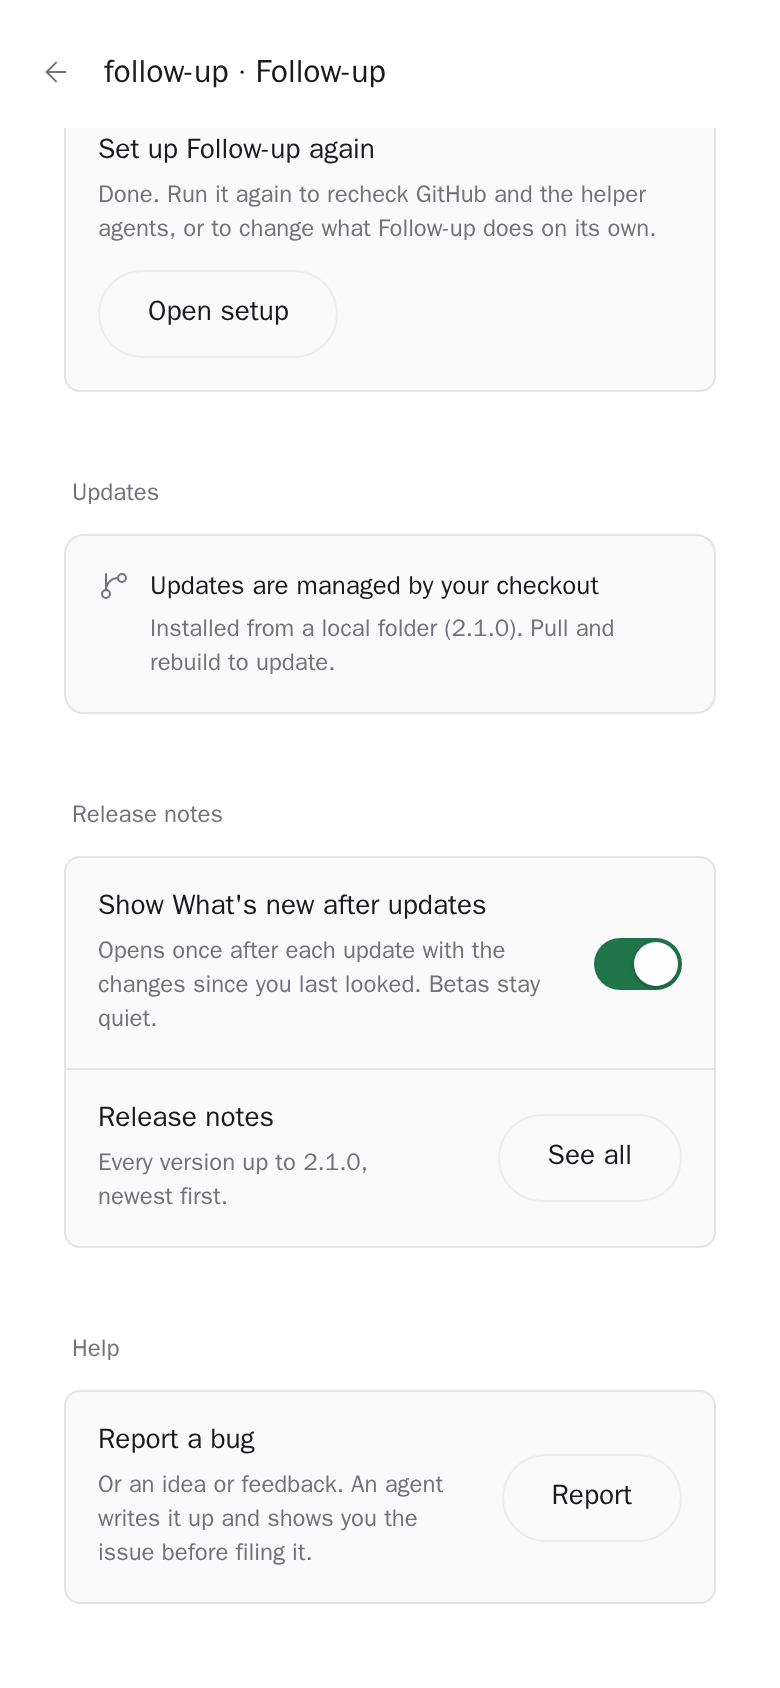
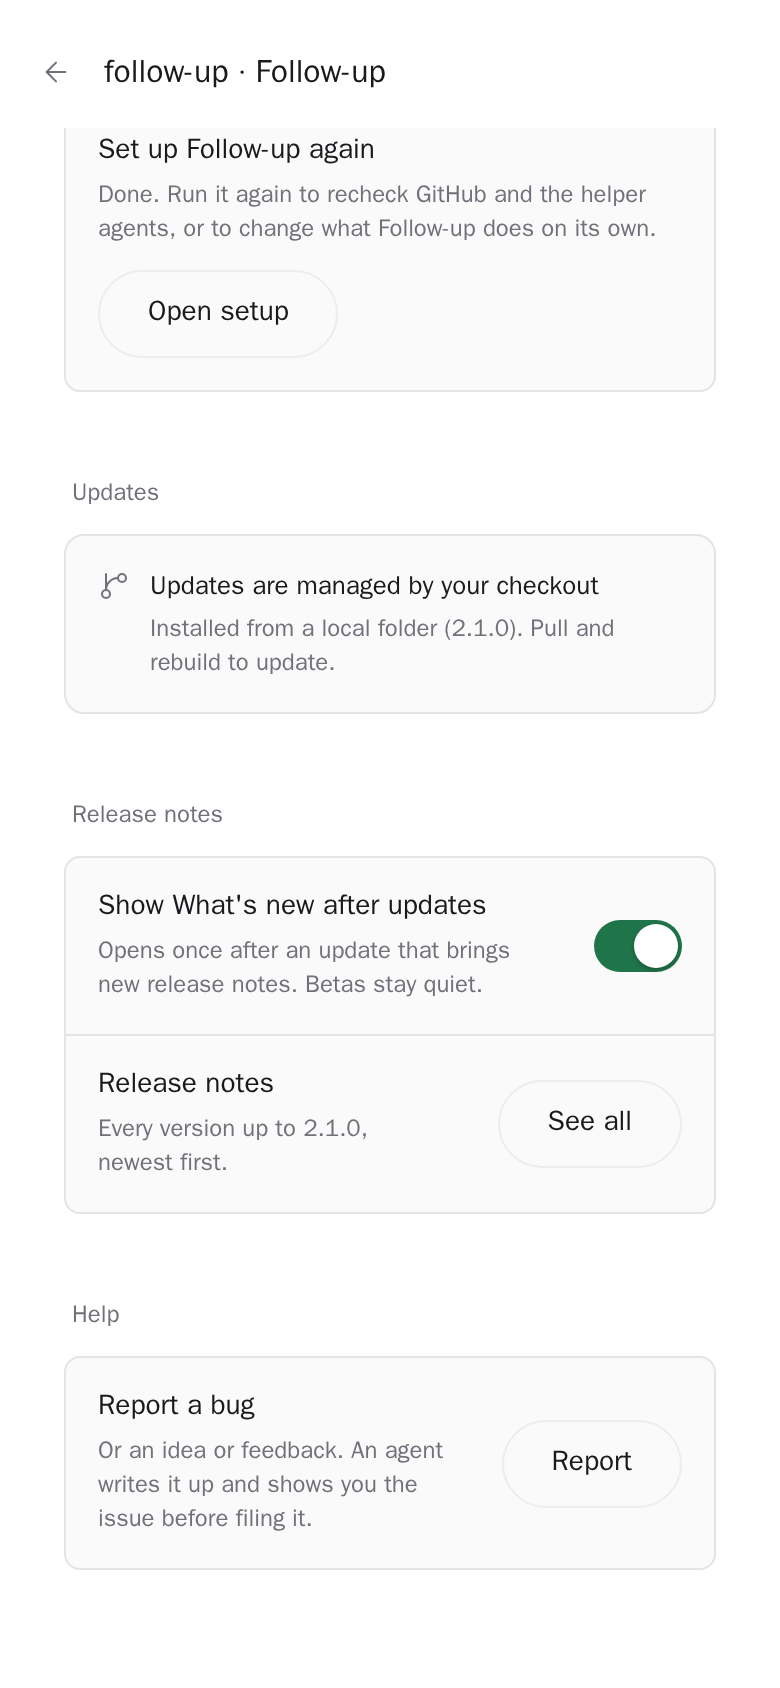
docs: word the What's new rule as an update that brings new release notes

diff --git a/server/mcp-source.ts b/server/mcp-source.ts
@@ -107,7 +107,7 @@ export const mcpSource: string = [
   "  [\"release_notes\", \"Read Follow-up's release notes: the installed version, the version it updated from (previous) and when (updatedAt, ms), and every shipped version's notes, newest first. What's new shows the notes after previous, once per device, unless enable_whats_new is off (set_updates).\" + read, \"follow.agent-act\", {}, []],",
   "  [\"updates_status\", \"Read Settings → General: installed version and install kind, mode (auto|notify|off), channel (stable|beta), enable_whats_new, newest version per channel, last and next check, phase (current, available, waiting, installing, settling, updated, rolled-back, install-failed, untrusted), notes for the pending version, install history, and move (2.0's one-time move to its new plugin id: phase none|waiting|moving|moved|rolled-back|failed|manual, with the reason).\" + read, \"follow.agent-act\", {}, []],",
   "  [\"check_updates\", \"Ask the registry for a newer Follow-up now, like Check now. Works when updates are Off. Calls a few seconds apart share one request; call it only when asked. Returns updates_status.\", \"follow.agent-act\", {}, []],",
-  "  [\"set_updates\", \"Change how Follow-up updates, like Settings → General: { mode: auto|notify|off, channel: stable|beta, enable_whats_new: show What's new once after each update (betas stay quiet; off records each update as seen) }.\" + ask, \"follow.agent-act\", { mode: { type: \"string\", enum: [\"auto\", \"notify\", \"off\"] }, channel: { type: \"string\", enum: [\"stable\", \"beta\"] }, enable_whats_new: boolean, ...planned }, []],",
+  "  [\"set_updates\", \"Change how Follow-up updates, like Settings → General: { mode: auto|notify|off, channel: stable|beta, enable_whats_new: show What's new once after an update that brings new release notes (betas never; off records each update as seen) }.\" + ask, \"follow.agent-act\", { mode: { type: \"string\", enum: [\"auto\", \"notify\", \"off\"] }, channel: { type: \"string\", enum: [\"stable\", \"beta\"] }, enable_whats_new: boolean, ...planned }, []],",
   "  [\"install_update\", \"Install a newer Follow-up, like Install now: { version } from updates_status. It waits for a quiet moment (no agent mid-turn) unless anyway: true. Rolled back automatically if the new version doesn't come up. Never installs a version whose provenance failed.\" + ask, \"follow.agent-act\", { version: string, anyway: boolean, ...planned }, [\"version\"]],",
   "  [\"retry_move\", \"Try Follow-up's move to its new plugin id again, like Settings → General's Try again, after updates_status shows move.phase rolled-back or failed. It waits for a quiet moment like an update and rolls back by itself if the new id doesn't come up.\" + ask, \"follow.agent-act\", { ...planned }, []],",
   "  [\"trust_bypass_status\", \"Read how many permission prompts trust bypass approved today, and the latest ones.\" + read, \"follow.agent-act\", {}, []],",

diff --git a/tests/update-announcements.test.ts b/tests/update-announcements.test.ts
@@ -3,10 +3,11 @@ import assert from "node:assert/strict";
 import { announcesUpdate, parseChangelog, quietRelease, recentUpdate, whatsNew, type WhatsNewInput } from "../shared/changelog";
 import { compareVersions } from "../shared/version";
 
-// Invariant (whats-new-after-every-stable-update): What's new opens once after an update to any newer stable version
-// (major, minor or patch) or a major's rc that has notes since the device last looked. A first install, onboarding, a
-// downgrade, a beta and the setting off are recorded quietly; the setting off records the installed version, so turning
-// it back on never brings old notes. whatsNew in shared/changelog.ts is the one rule; the grid below enforces it.
+// Invariant (whats-new-after-every-stable-update): What's new opens after a stable update that brings new release notes, unless the switch is off; betas never do.
+// New notes means a CHANGELOG section newer than the version the device last saw; with none, no sheet ("no-notes").
+// It opens once per device (a major's rc carries the major's section and counts as its release). A first install, onboarding, a downgrade, a beta and the
+// switch off are recorded quietly; the switch off records the installed version, so turning it back on never brings
+// old notes. whatsNew in shared/changelog.ts is the one rule; the grid below enforces it.
 // Home's "Follow-up X is available" line is a separate notice and stays major-only (update-notice-major-only,
 // announcesUpdate, tests/updater.test.ts).
 
@@ -35,6 +36,8 @@ test("quiet cases: first install, onboarding, downgrade, seen, beta, no notes, a
   assert.deepEqual(at("2.1.0", "2.1.0"), { show: false, reason: "seen", record: null });
   assert.deepEqual(at("2.0.1", "2.1.0-beta.0"), { show: false, reason: "prerelease", record: "2.1.0-beta.0" });
   assert.deepEqual(at("2.0.0", "2.0.1", { notes: [] }), { show: false, reason: "no-notes", record: "2.0.1" });
+  const older = notes.filter(n => n.version === "2.0.0" || n.version === "1.5.0");
+  assert.deepEqual(at("2.0.0", "2.0.1", { notes: older }), { show: false, reason: "no-notes", record: "2.0.1" }, "a stable with no section newer than the device's last seen version: no sheet");
   assert.deepEqual(at("2.0.0", "2.1.0", { enabled: false }), { show: false, reason: "off", record: "2.1.0" }, "off: no sheet, the version is recorded");
   assert.ok(at("2.1.0", "3.0.0", { enabled: true }).show, "on again: only versions after the recorded one");
   assert.deepEqual(at("2.1.0", "2.1.0", { enabled: true }), { show: false, reason: "seen", record: null }, "turning it back on brings no old notes");

diff --git a/shared/changelog.ts b/shared/changelog.ts
@@ -159,10 +159,11 @@ export function announcesUpdate(from: string | null, to: string): boolean {
 export const quietRelease = (version: string): boolean => (parseVersion(version)?.pre.length ?? 0) > 0 && !isMajorRc(version);
 
 /**
- * Whether this device shows "What's new" now (invariant `whats-new-after-every-stable-update`). It opens after an
- * update to any newer stable version (major, minor or patch) or a major's rc, when there are notes since the version
- * the device last saw. Quiet, recording the installed version: a first install (no baseline at all; onboarding covers
- * it), a downgrade, a beta, and the setting off (so turning it back on never brings old notes). Onboarding wins over the
+ * Whether this device shows "What's new" now (invariant `whats-new-after-every-stable-update`): What's new opens after a stable update that brings new release notes, unless the switch is off; betas never do
+ * (only stables carry notes). New means a CHANGELOG section newer than the version this device last saw; with none, no
+ * sheet ("no-notes"). A major's rc carries the major's section and counts as its release. Quiet, recording the
+ * installed version: a first install (no baseline at all; onboarding covers it), a downgrade, a beta, and the switch
+ * off (so turning it back on never brings old notes). Onboarding wins over the
  * sheet and leaves the stored version alone, so the sheet can come after onboarding ends.
  */
 export function whatsNew({ installed, deviceSeen, previous, onboarding, enabled = true, notes }: WhatsNewInput): WhatsNew {

diff --git a/shared/updates.ts b/shared/updates.ts
@@ -44,7 +44,7 @@ export const updatesViewSchema = z.object({
   installKind: z.enum(INSTALL_KINDS),
   mode: z.enum(UPDATE_MODES),
   channel: z.enum(["stable", "beta"]),
-  /** What's new opens after an update (major, minor or patch; betas stay quiet). Applies to every install kind. */
+  /** What's new opens after an update that brings new release notes (stables only). Applies to every install kind. */
   enable_whats_new: z.boolean().default(true),
   /** Newest version on each channel per the last check (null: nothing published, or never checked). */
   channels: z.object({ stable: z.string().nullable(), beta: z.string().nullable() }),
@@ -68,7 +68,7 @@ export type UpdatesChange = z.infer<typeof setUpdatesInputSchema>;
 /** Settings → General's What's new switch: its label and the hint for each state. */
 export const WHATS_NEW_LABEL = "Show What's new after updates";
 export const whatsNewHint = (on: boolean) => on
-  ? "Opens once after each update with the changes since you last looked. Betas stay quiet."
+  ? "Opens once after an update that brings new release notes. Betas stay quiet."
   : "Updates install quietly. Release notes below still show every version.";
 
 const ago = (ms: number) => {

diff --git a/AGENTS.md b/AGENTS.md
@@ -609,7 +609,7 @@ See [docs/releasing.md](docs/releasing.md). In short:
   Betas get no CHANGELOG section; a stable or a major's rc gets a CURATED one (release:notes writes a draft that
   check:notes refuses until it's rewritten). A major's rc (`2.0.0-rc.0`) carries the major's section, `## 2.0.0`.
 - Every GitHub release has notes in one format (`scripts/release-body.mjs`): a beta's page renders the fragments
-  added since the previous tag, a stable's or an rc's its curated section. In-app What's new shows a stable's or an rc's curated section after the update; betas stay quiet.
+  added since the previous tag, a stable's or an rc's its curated section. In-app, What's new opens after a stable update that brings new release notes, unless the switch is off; betas never do.
 - **An accepted publication waits for registry visibility** (`accepted-publish-waits-for-registry`): verify integrity
   and the dist-tag with cache-bypassed reads for up to 45 minutes after npm accepts a version. A visibility timeout
   is pending publication, never permission to rewrite its tag or cut a replacement version. Release notes wait for
@@ -622,8 +622,8 @@ Semver by what users get (`version-is-picked-at-release`, `features-ship-in-a-mi
 
 - **Patch** (`2.0.2`): fixes and speed-ups only.
 - **Minor** (`2.1.0`): anything new a user can use, such as a feature, setting, screen or agent tool.
-- **Major** (`3.0.0`): a big or breaking change. It's Tom's call. Every stable update (major, minor or patch) opens
-  What's new with its curated section, so even a patch's section is written for the person reading it.
+- **Major** (`3.0.0`): a big or breaking change. It's Tom's call. What's new opens after any stable update that brings new
+  release notes, major, minor or patch, so even a patch's section is written for the person reading it.
 
 Pick the version right before the release, never by keeping the betas' number:
 

diff --git a/docs/settings.md b/docs/settings.md
@@ -109,10 +109,10 @@ First, pick where it lives:
 
 - **Release notes.** `shared/changelog.ts` parses `CHANGELOG.md` and picks the What's new notes.
   `shared/version.ts` orders versions (semver with prerelease identifiers) and selects channels.
-- **What's new opens after every stable update.** `whatsNew()` in `shared/changelog.ts` is the one rule for the
-  sheet: it opens once per device after an update to any newer stable version (major, minor or patch) or a major's
-  rc, showing the notes since the version that device last saw. A first install, onboarding, a downgrade and a beta
-  (betas carry no notes in the app) are recorded quietly. Settings → General's **Show What's new after updates**
+- **What's new opens after every stable update.** The rule: What's new opens after a stable update that brings new release notes, unless the switch is off; betas never do (only
+  stables carry notes). New notes means a CHANGELOG.md section newer than the version that device last saw; with none,
+  no sheet. `whatsNew()` in `shared/changelog.ts` is the one place it lives. The sheet opens once per device (a major's
+  rc carries the major's section and counts as its release). A first install, onboarding and a downgrade are recorded quietly too. Settings → General's **Show What's new after updates**
   switch (`enable_whats_new` in `updates.json`, default on; agents: `updates_status`, `set_updates`) turns it off:
   each update is then recorded as seen without the sheet, so turning it back on never brings old notes, and Home's
   footer and Release notes still open it by hand. The invariant is `whats-new-after-every-stable-update`, with a grid

diff --git a/docs/releasing.md b/docs/releasing.md
@@ -62,9 +62,9 @@ stop.
      curated section. A beta with no fragments says "Maintenance release; no user-visible changes." The install
      command appears once, at the top; `## Install` holds the update command, the dist-tag note, the Paseo floor and,
      only when that run did those checks, the verification sentence. Preview a body
-     with `node scripts/release-body.mjs <tag>`. This is the GitHub page only: What's new in the app shows a
-     stable's or a major rc's curated section once after the update (betas stay quiet; Settings → General can turn it
-     off), so every stable section, a patch's included, is written for that sheet. `tests/release-body.test.ts` covers the format and that the workflow uses the renderer.
+     with `node scripts/release-body.mjs <tag>`. This is the GitHub page only: in the app, What's new opens after
+     a stable update that brings new release notes, unless the switch is off; betas never do. So every stable
+     section, a patch's included, is written for that sheet. `tests/release-body.test.ts` covers the format and that the workflow uses the renderer.
 5. `scripts/publish-npm.mjs` waits up to 45 minutes for matching registry integrity **and** the expected dist-tag.
    Every probe uses cache revalidation headers and a fresh query key so cached 404s cannot end verification early.
    The publish job allows 90 minutes, leaving the full verification window after its checks. An npm acceptance

diff --git a/README.md b/README.md
@@ -90,7 +90,7 @@ View. Follow-up 2.0 still runs on Paseo 0.15; there it simply doesn't offer the 
 
   <img alt="Follow-up on a phone: Home's list, and a workspace's detail with its question" src="https://raw.githubusercontent.com/tomgrin10/paseo-follow-up/main/docs/screenshots/follow-up-phone.png">
 
-After an update, Follow-up shows **What's new** once with what changed since you last looked. Betas install quietly.
+After an update that brings new release notes, Follow-up shows **What's new** once. Betas install quietly.
 To stop it, turn off **Show What's new after updates** in Settings → General. Release notes are there too, and in
 [CHANGELOG.md](CHANGELOG.md).
 

diff --git a/CHANGELOG.md b/CHANGELOG.md
@@ -1,6 +1,6 @@
 # Release notes
 
-What changed in each version of Follow-up, newest first. Follow-up shows the curated part of each stable release in "What's new" after the update (betas install quietly; Settings → General can turn it off), and every version's notes from Home's version line.
+What changed in each version of Follow-up, newest first. Follow-up shows "What's new" after an update that brings new release notes: the curated part of each stable release since you last looked (betas install quietly; Settings → General can turn it off), and every version's notes from Home's version line.
 
 ## 2.1.0 (2026-11-17)
 

diff --git a/changes/feat-whats-new-always.md b/changes/feat-whats-new-always.md
@@ -1,2 +1,2 @@
-- What's new now opens after every update, not only a major one, with what changed since you last looked. Betas still install quietly.
+- What's new now opens after any update that brings new release notes, not only a major one. Betas still install quietly.
 - Don't want it? Turn off Show What's new after updates in Settings → General. Release notes stay one tap away.
